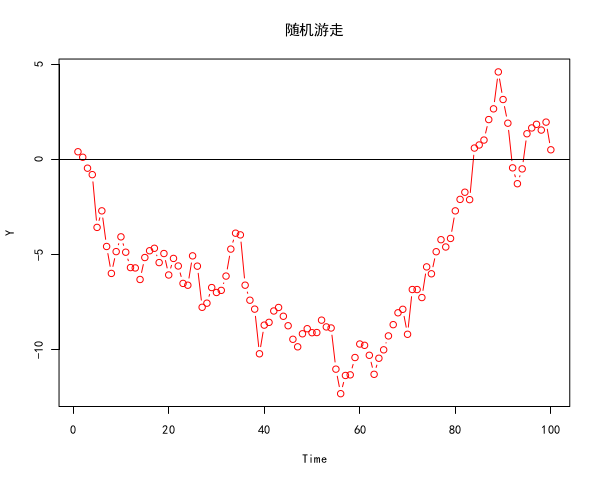
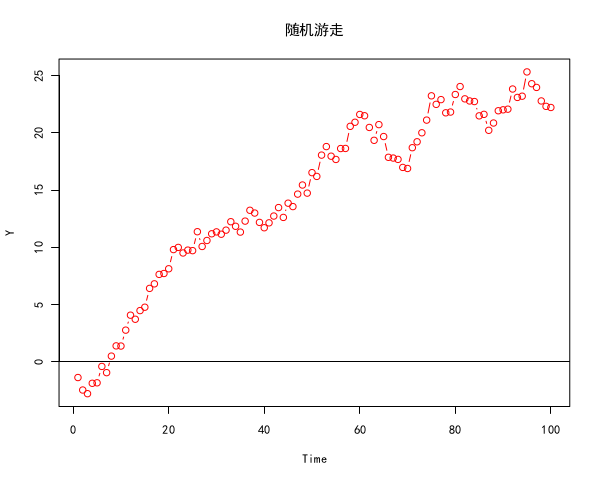
update

diff --git a/articles/time-series-analysis-foundation.html b/articles/time-series-analysis-foundation.html
@@ -83,6 +83,24 @@ abline(h=0)</pre>
 
 <p>其中共100个元素，每个元素都独立服从标准正态分布\(N(0,1)\)。可以从图中看出白噪声基本是在均值附近较为平均的随机震荡。</p>
 <p>由于每个元素服从\(N(0,1)\)，所以均值\(\mu_t=0\)，方差\(\sigma^2_t=1\)。又因为每个元素独立，所以对于任何\(t \neq s\)，\(\gamma_{t,s}=0\)，\(\rho_{t,s}=0\)。这些统计特征与对图像的直观观察基本一致。</p>
+<h3>随机游走</h3>
+<p>下面考虑这样一个时间序列，其在t时刻的值是前面白噪声序列的前t个值之和，设\(\{e_1, e_2, \ldots, e_t, \ldots \}\)为标准正态分布产生的白噪声，则：</p>
+<p>\[\begin{array}{l l l}
+Y_1 &amp; = &amp; e_1 \\
+Y_2 &amp; = &amp; e_1+e_2 \\
+\vdots &amp; &amp;
+Y_t &amp; = &amp; e_1+e_2+\cdots +e_t \\
+\vdots &amp; &amp;
+\end{array}\]</p>
+<p>下面是用R模拟的随机游走。</p>
+<p class="picture"><img alt="" src="/uploads/pictures/time-series-analysis-foundation/randwalk.png"/></p>
+
+<pre class="prettyprint">Y = ts(rnorm(100, mean=0, sd=1));
+for (i in 2:length(Y)) {
+    Y[i] = Y[i] + Y[i-1];
+}
+plot(Y, family="simhei", main="随机游走", type="b", col="red");
+abline(h=0)</pre>
 
                 </div>
 
